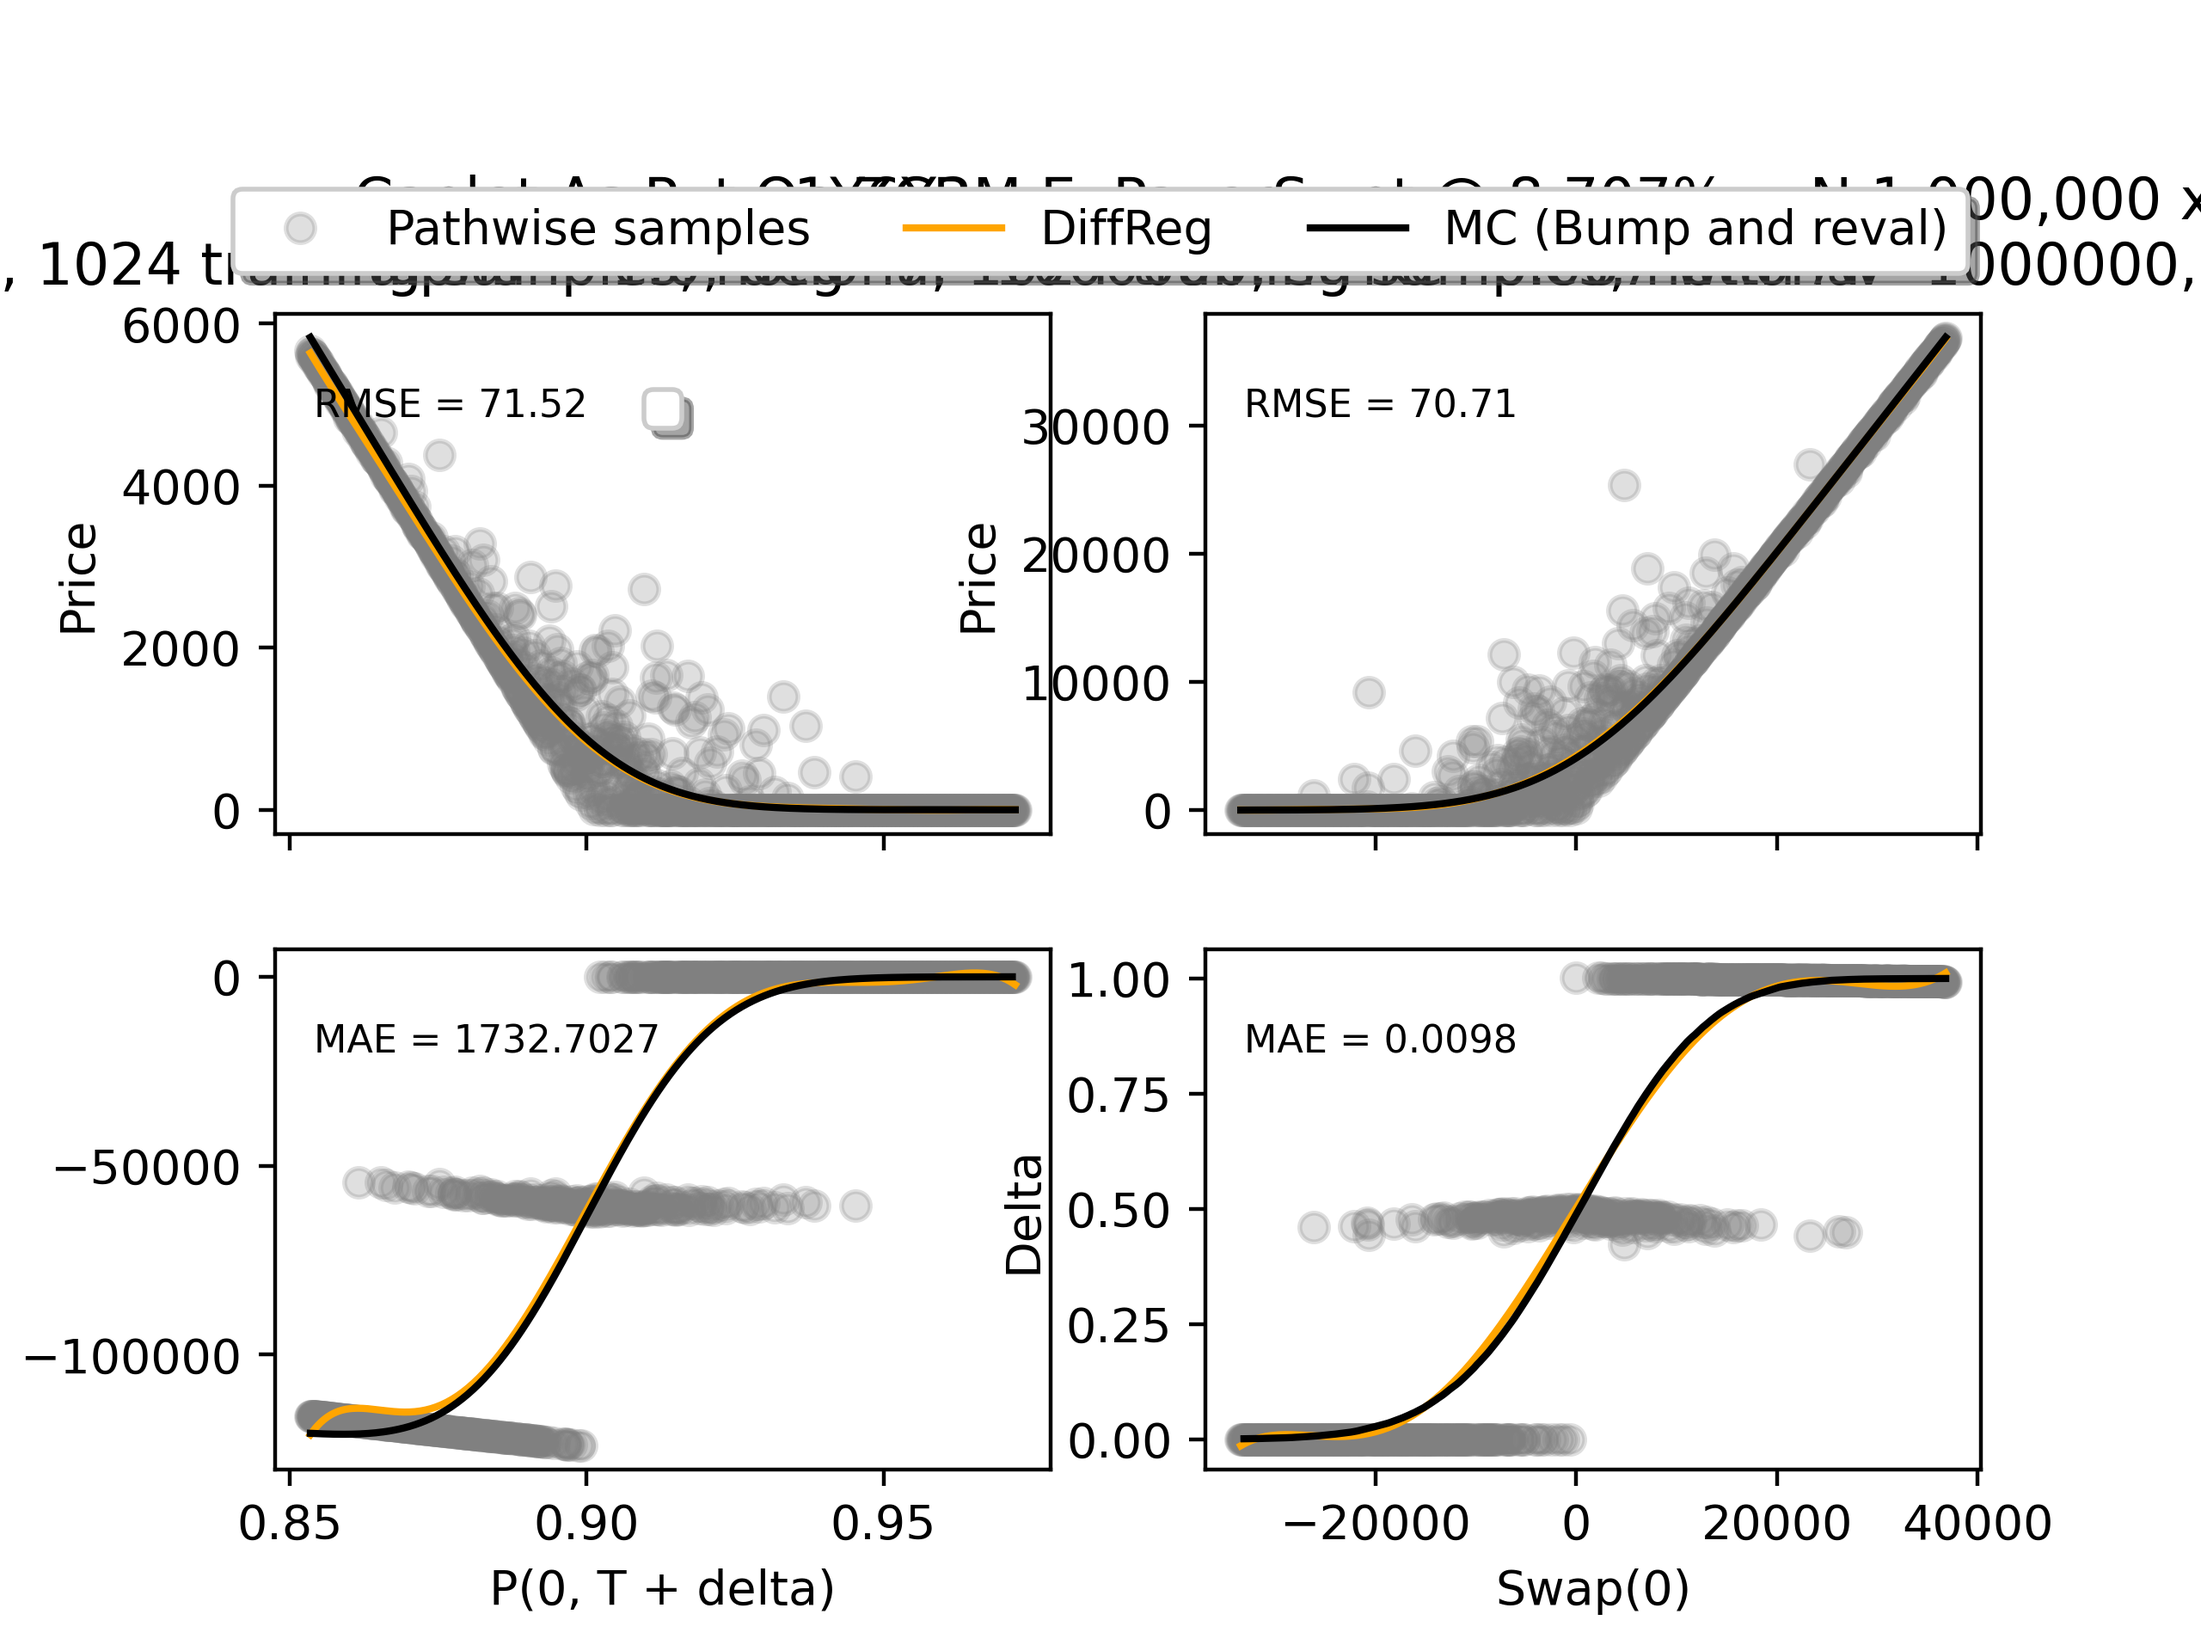
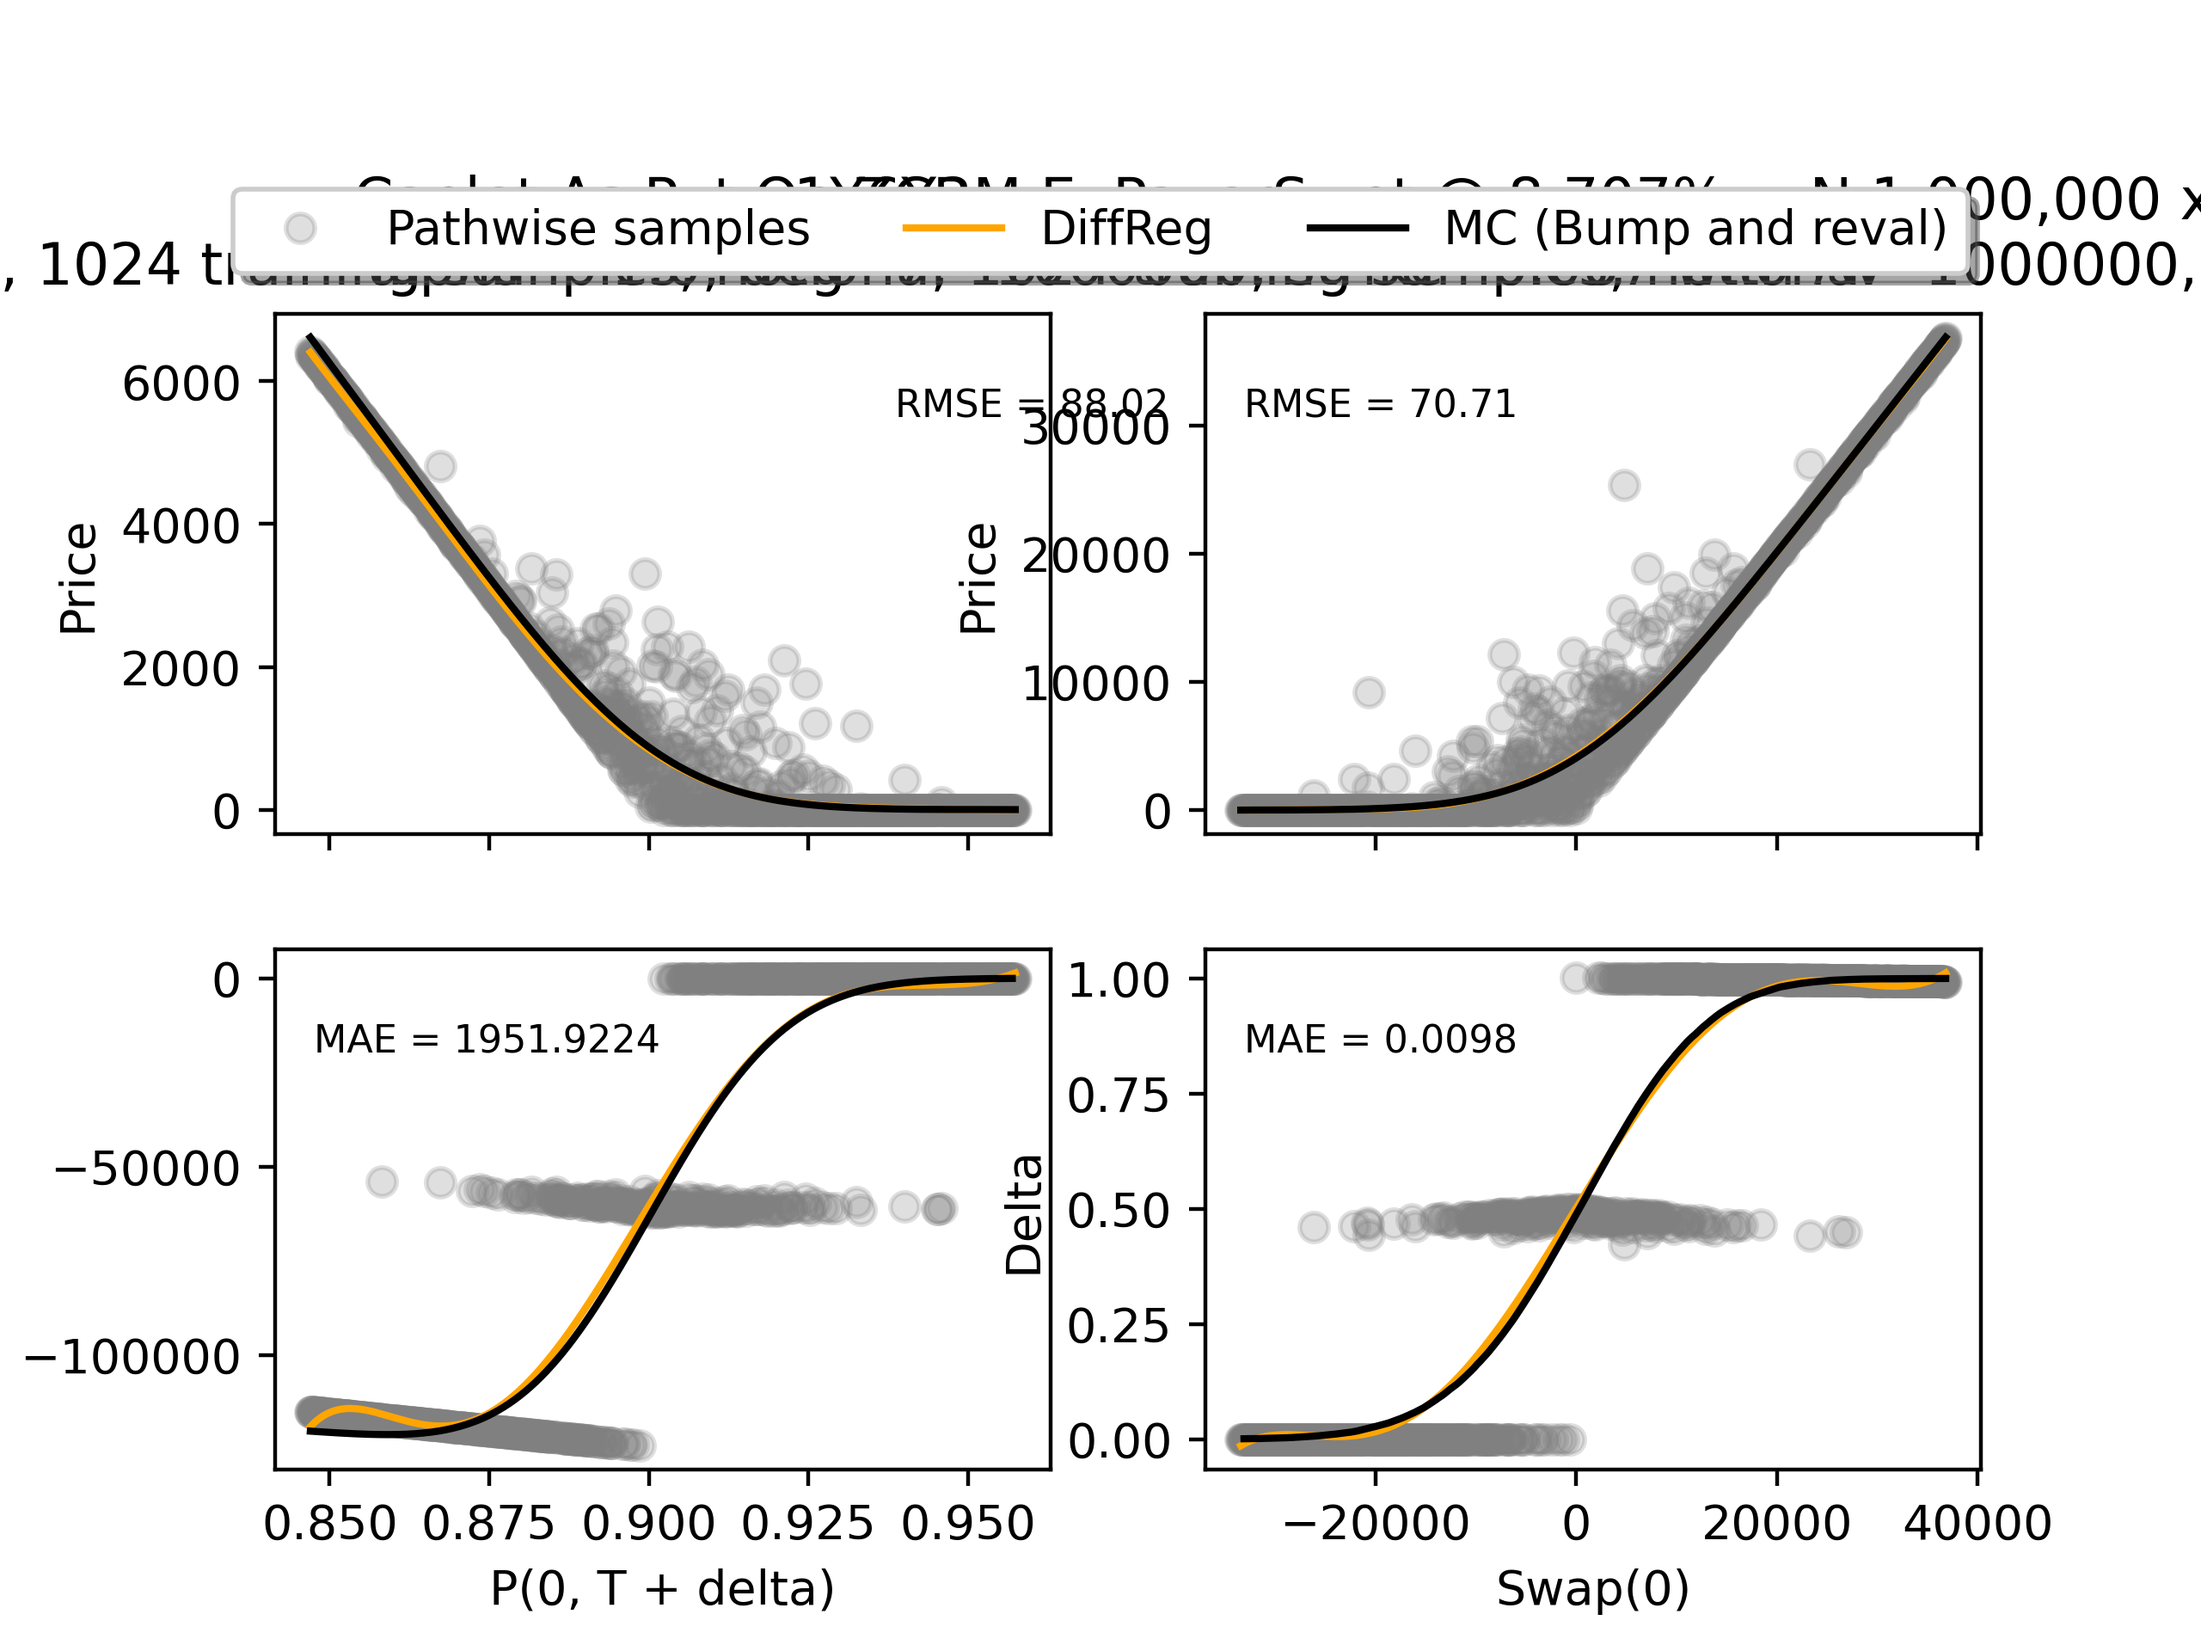
Plot fix

diff --git a/application/experiments/vasicek/diff_ML_plots/vasicek_AAD_DiffReg_plot_delta_capletzcb_x_eurswpt.py b/application/experiments/vasicek/diff_ML_plots/vasicek_AAD_DiffReg_plot_delta_capletzcb_x_eurswpt.py
@@ -18,8 +18,8 @@ if __name__ == '__main__':
     N_test = 256
     use_av = True
 
-    r0_min = -0.02
-    r0_max = 0.15
+    r0_min = 0.00
+    r0_max = 0.16
 
     r0_vec = torch.linspace(r0_min, r0_max, N_train)
 
@@ -150,7 +150,7 @@ if __name__ == '__main__':
     ax[0,0].plot(X_test.flatten(), y_pred, label='DiffReg', color='orange')
     ax[0,0].plot(X_test, y_mdl, color='black', label='Analytical (Bump and reval)')
     ax[0,0].set_ylabel('Price')
-    ax[0,0].text(0.05, 0.8, f'RMSE = {RMSE_price:.2f}', fontsize=8, transform=ax[0,0].transAxes)
+    ax[0,0].text(0.8, 0.8, f'RMSE = {RMSE_price:.2f}', fontsize=8, transform=ax[0,0].transAxes)
 
     # Plot delta function
     ax[1,0].plot(X_train, z_train, 'o', color='gray', alpha=0.25, label='Pathwise samples')
@@ -167,23 +167,19 @@ if __name__ == '__main__':
     box1 = ax[1,0].get_position()
     ax[1,0].set_position([box1.x0, box1.y0, box1.width, box1.height * 0.9])
 
-    # Legend
-    handles, labels = fig.gca().get_legend_handles_labels()
-    by_label = dict(zip(labels, handles))
-    ax[0,0].legend(by_label.values(), by_label.keys(), loc='upper center', ncol=3, fancybox=True, shadow=True,
-               bbox_to_anchor=(0.5, 0.90))
-
     # Title
     av_str = 'with AV' if use_av else 'without AV'
     ax[0,0].set_title(prd.name + f'\nalpha = {alpha}, deg={deg}, {N_train} training samples, notional={int(notional)}, '
                                  f'strike={np.round(float(strike), 3)} ' + av_str)
 
-    #plt.savefig(get_plot_path('vasicek_AAD_DiffReg_plot_delta_caplet_as_put_on_zcb.png'), dpi=400)
-    plt.show()
 
 
 
     """EUR SWAPTION"""
+    r0_min = -0.02
+    r0_max = 0.15
+
+    r0_vec = torch.linspace(r0_min, r0_max, N_train)
 
     # Product specification
     exerciseDate = torch.tensor(1.0)
@@ -340,5 +336,5 @@ if __name__ == '__main__':
     ax[0, 1].set_title(prd.name + f'\nalpha = {alpha}, deg={deg}, {N_train} training samples, '
                                   f'notional={int(notional)}, '
                    f'strike={np.round(float(strike), 3)} ' + av_str)
-    plt.savefig(get_plot_path('vasicek_AAD_DiffReg_plot_delta_capletzcb_x_eurswpt.png'), dpi=400)
+    #plt.savefig(get_plot_path('vasicek_AAD_DiffReg_plot_delta_capletzcb_x_eurswpt.png'), dpi=400)
     plt.show()
